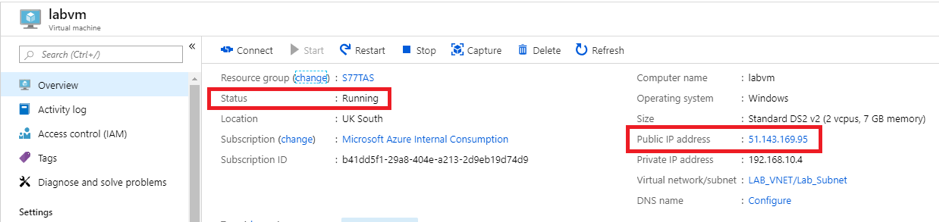
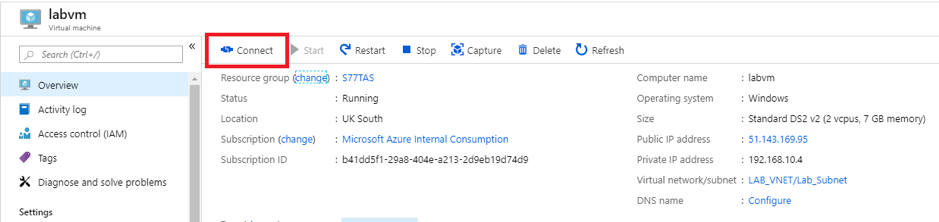
Corrections

Changed region(s): [[0.6486, 0.5405, 0.8956, 0.7027], [0.2162, 0.3784, 0.4324, 0.5135], [0.2162, 0.1351, 0.3088, 0.3243]]

diff --git a/MoveIacLab1.md b/MoveIacLab1.md
@@ -48,16 +48,16 @@ Click ‘Create a resource’ and start typing ‘Automation’ until the option
 
 11.	Fill in the parameters as per the screenshot below and then click ‘Create’:
 
-<img src="images/Lab1_17.png" width="624"/>
+<img src="images/Lab1_16.png" width="624"/>
 
 12. Confirm your VM from step #8 has successfully completed provisioning by choosing ‘Virtual machines’ from the left hand menu (if you do not have a Virtual machines shortcut then just type the name of your VM into the search box at the top):
 
+<img src="images/Lab1_17.png" width="624"/>
 <img src="images/Lab1_18.png" width="624"/>
-<img src="images/Lab1_19.png" width="624"/>
 
 13. Verify the status is ‘Running’ and note the public IP Address that has been assigned:
 
-<img src="images/Lab1_20.png" width="624"/>
+<img src="images/Lab1_19.png" width="624"/>
 
 14. RDP into the VM by clicking the ‘Connect’ button at the top using the credentials you provided in step #5 and verify you can logon on successfully:
 
